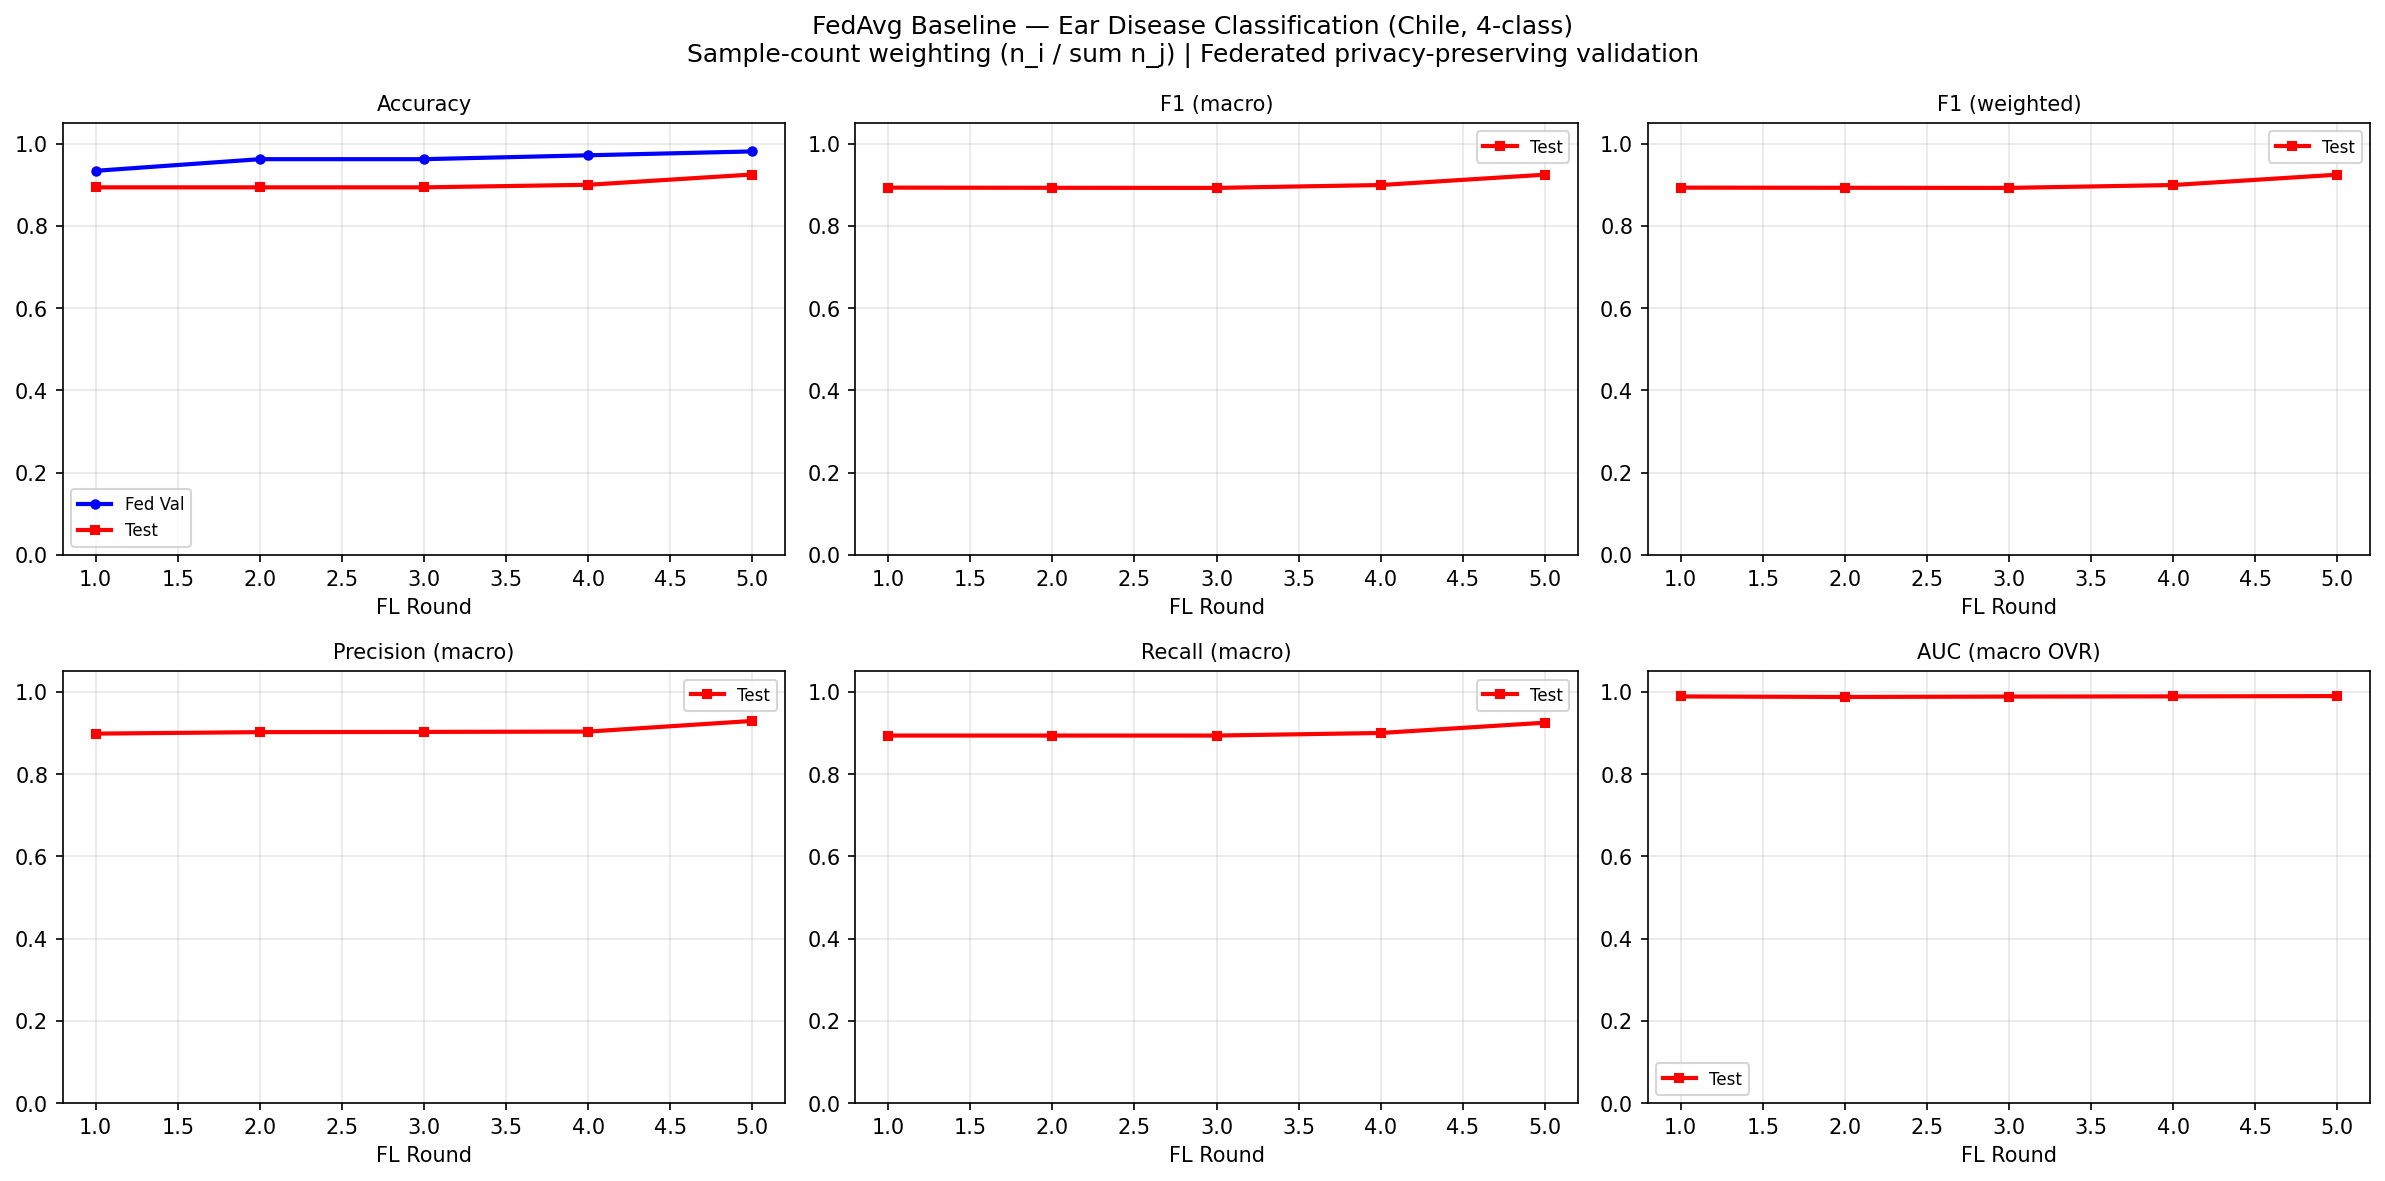
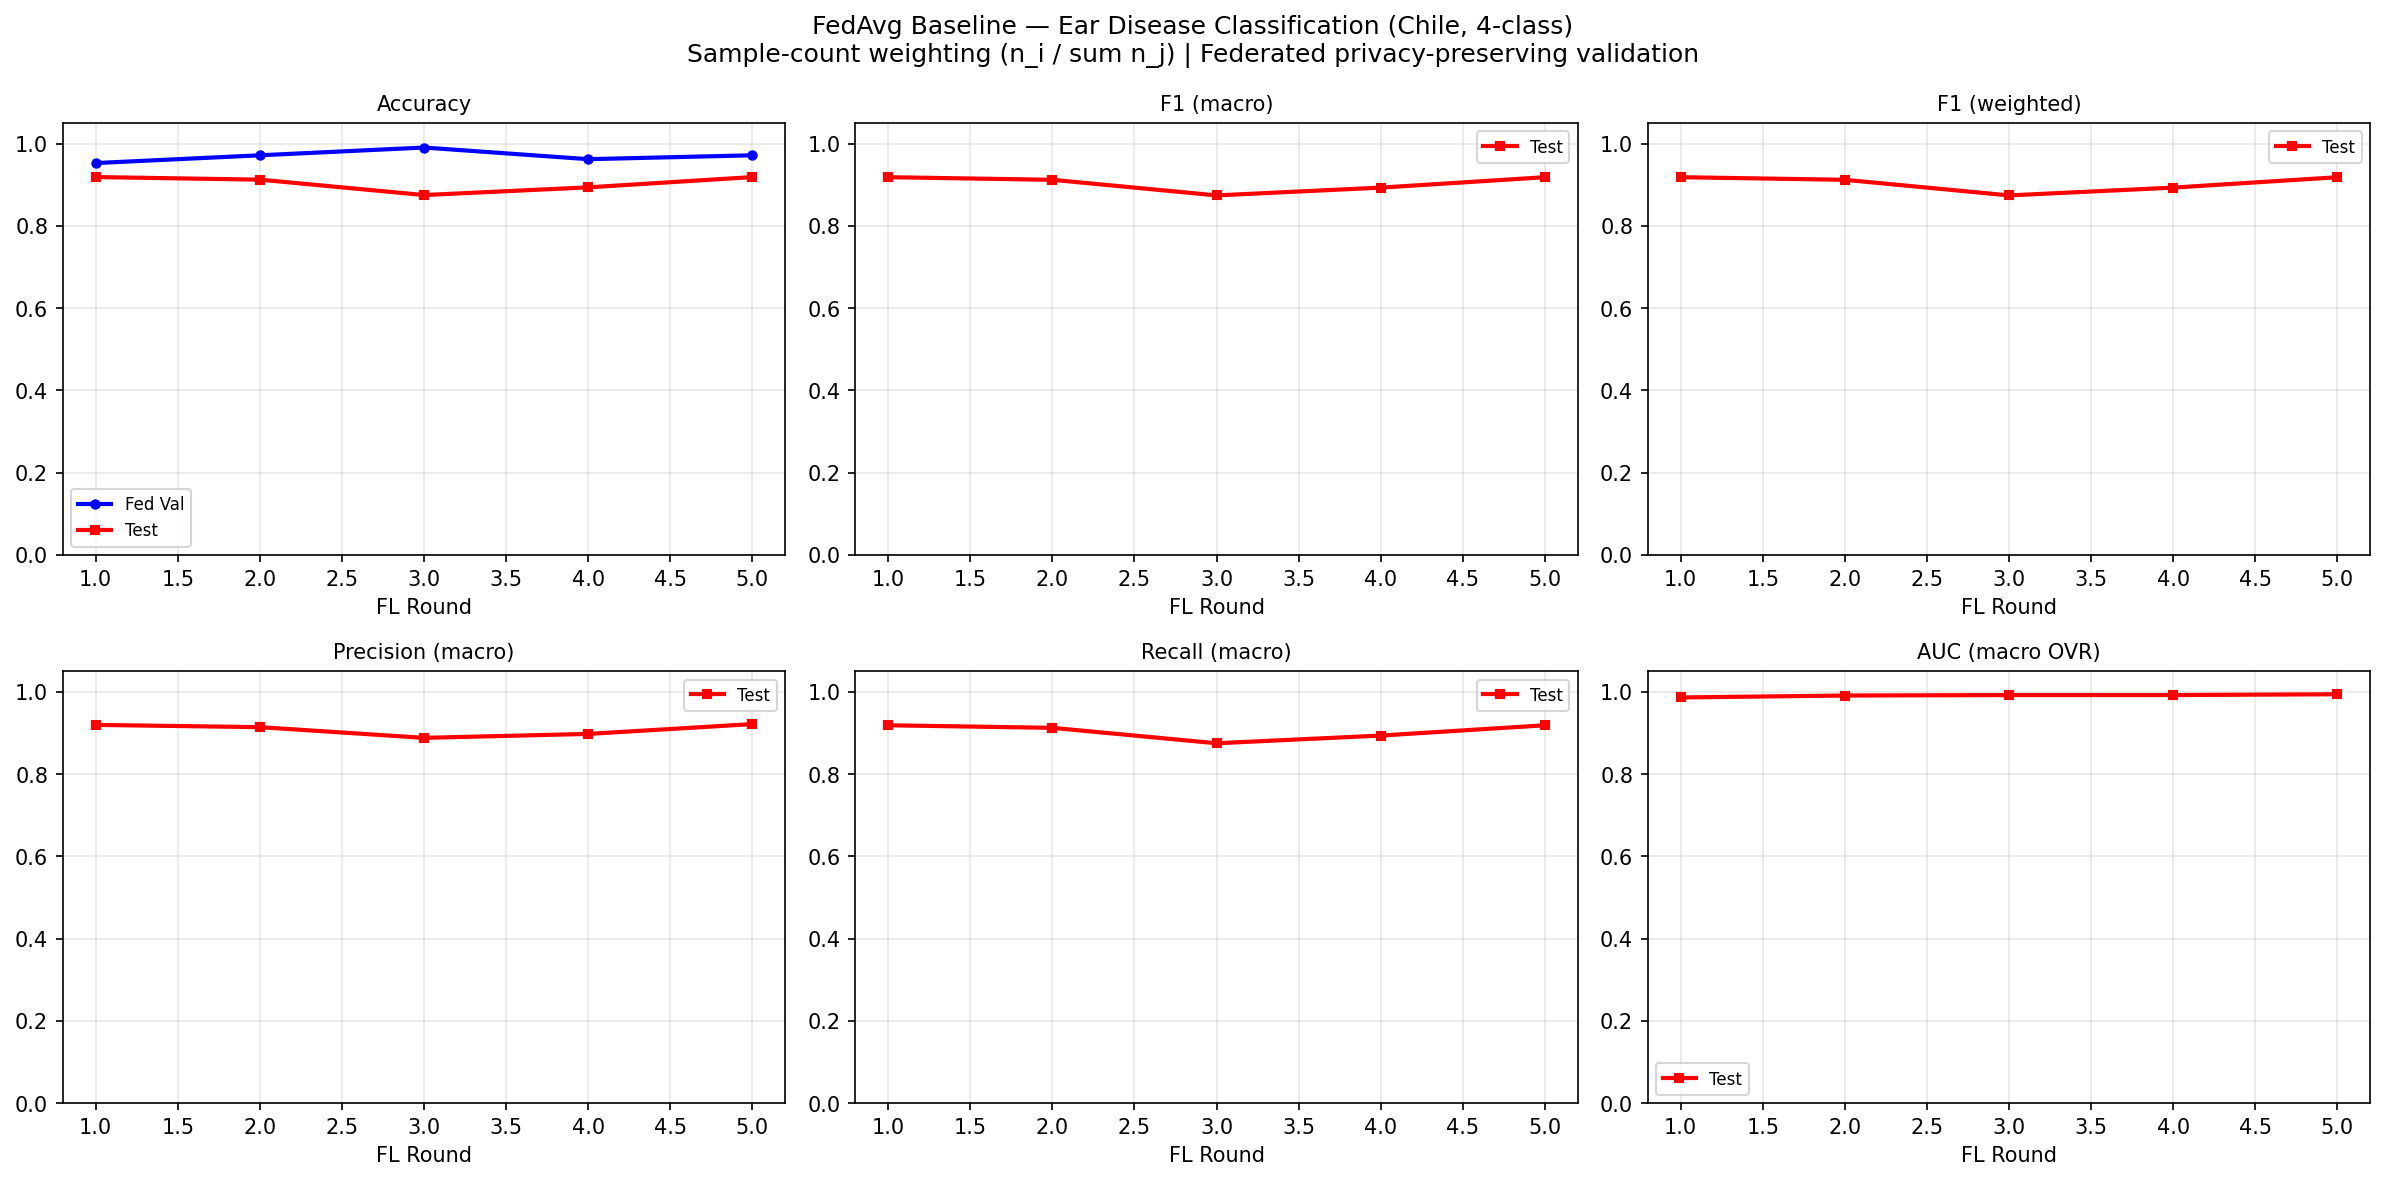
FL in git

diff --git a/run_flower.py b/run_flower.py
@@ -28,7 +28,7 @@ from fl_server import FedAvgStrategy, save_partition_summary
 # ═══════════════════════════════════════════════════════════
 # CONFIGURATION  —  the only two switches you need per run
 # ═══════════════════════════════════════════════════════════
-PARTITION_MODE = "iid"        # "iid" or "dirichlet"
+PARTITION_MODE = "dirichlet"        # "iid" or "dirichlet"
 STRATEGY_MODE  = "fedavg"     # "fedavg" or "fedprox"
 
 # FedProx proximal term strength. Ignored when STRATEGY_MODE